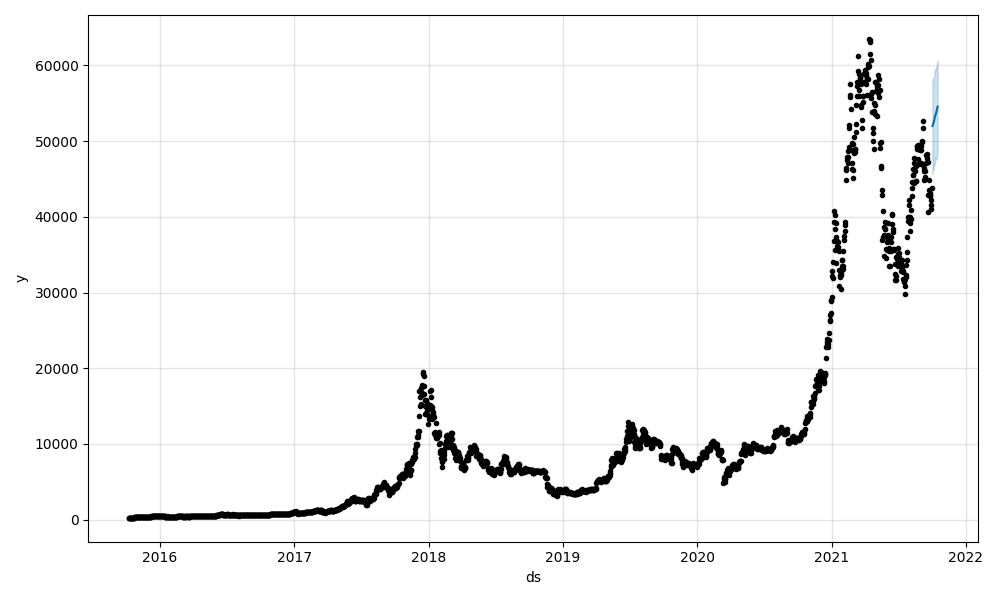
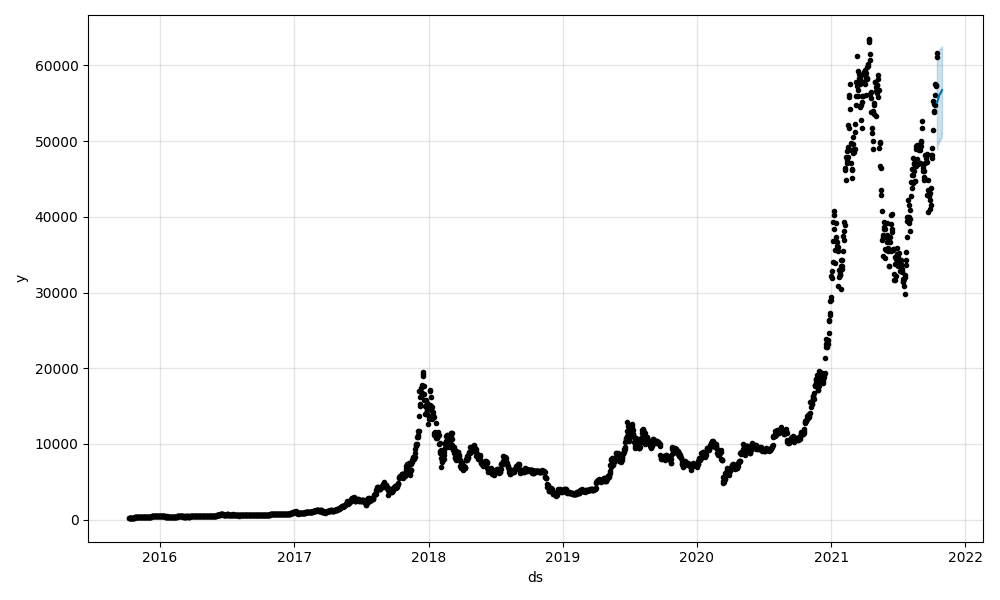
edited the procfile

diff --git a/model.py b/model.py
@@ -15,7 +15,6 @@ def train(model='bitcoin'):
         from StringIO import StringIO # Python 2.x
     else:
         from io import StringIO # Python 3.x
-    ##load the dataset
     ##set your credentials and secret
     AWS_ID = config('AWS_ID')
     AWS_SECRET_KEY = config('AWS_SECRET_KEY')
@@ -27,18 +26,19 @@ def train(model='bitcoin'):
 
     ##get the object name and the object key(the actual .csv file)
     bucket_name = 'edjangobucket'
-    # object_key = 'BTCUSD_day.csv'
-    object_key = 'BTC_Latest.csv'
+    # object_key = 'BTC_Latest.csv'
+    object_key = 'BTC_Data.csv'
 
     csv_object = client.get_object(Bucket=bucket_name, Key=object_key)
     csv_body = csv_object['Body']
     csv_string = csv_body.read().decode('utf-8')
 
+    ##load the dataset
     df = pd.read_csv(StringIO(csv_string))
     ##get the date and closing price in order to forecast
     df_forecast = pd.DataFrame({'ds':[],'y':[]})
     df_forecast['ds'],df_forecast['y']= df['Date'],df['Close'] 
-    model_prop = Prophet()
+    model_prop = Prophet(daily_seasonality=True,changepoint_prior_scale=0.05)
     model_prop.fit(df_forecast)
     return model_prop
 
@@ -54,7 +54,7 @@ def predict(date=datetime.datetime.today(),model='bitcoin'):
     dates = pd.DataFrame({'ds':date_frame})
     prediction =  model_load.predict(dates)
     actual_pred = prediction[['ds','trend']]
-    print(prediction)
+
 
     ##visualize your trends to find  relevant insights
     model_load.plot(prediction).savefig(f"{model}_plot.png")
